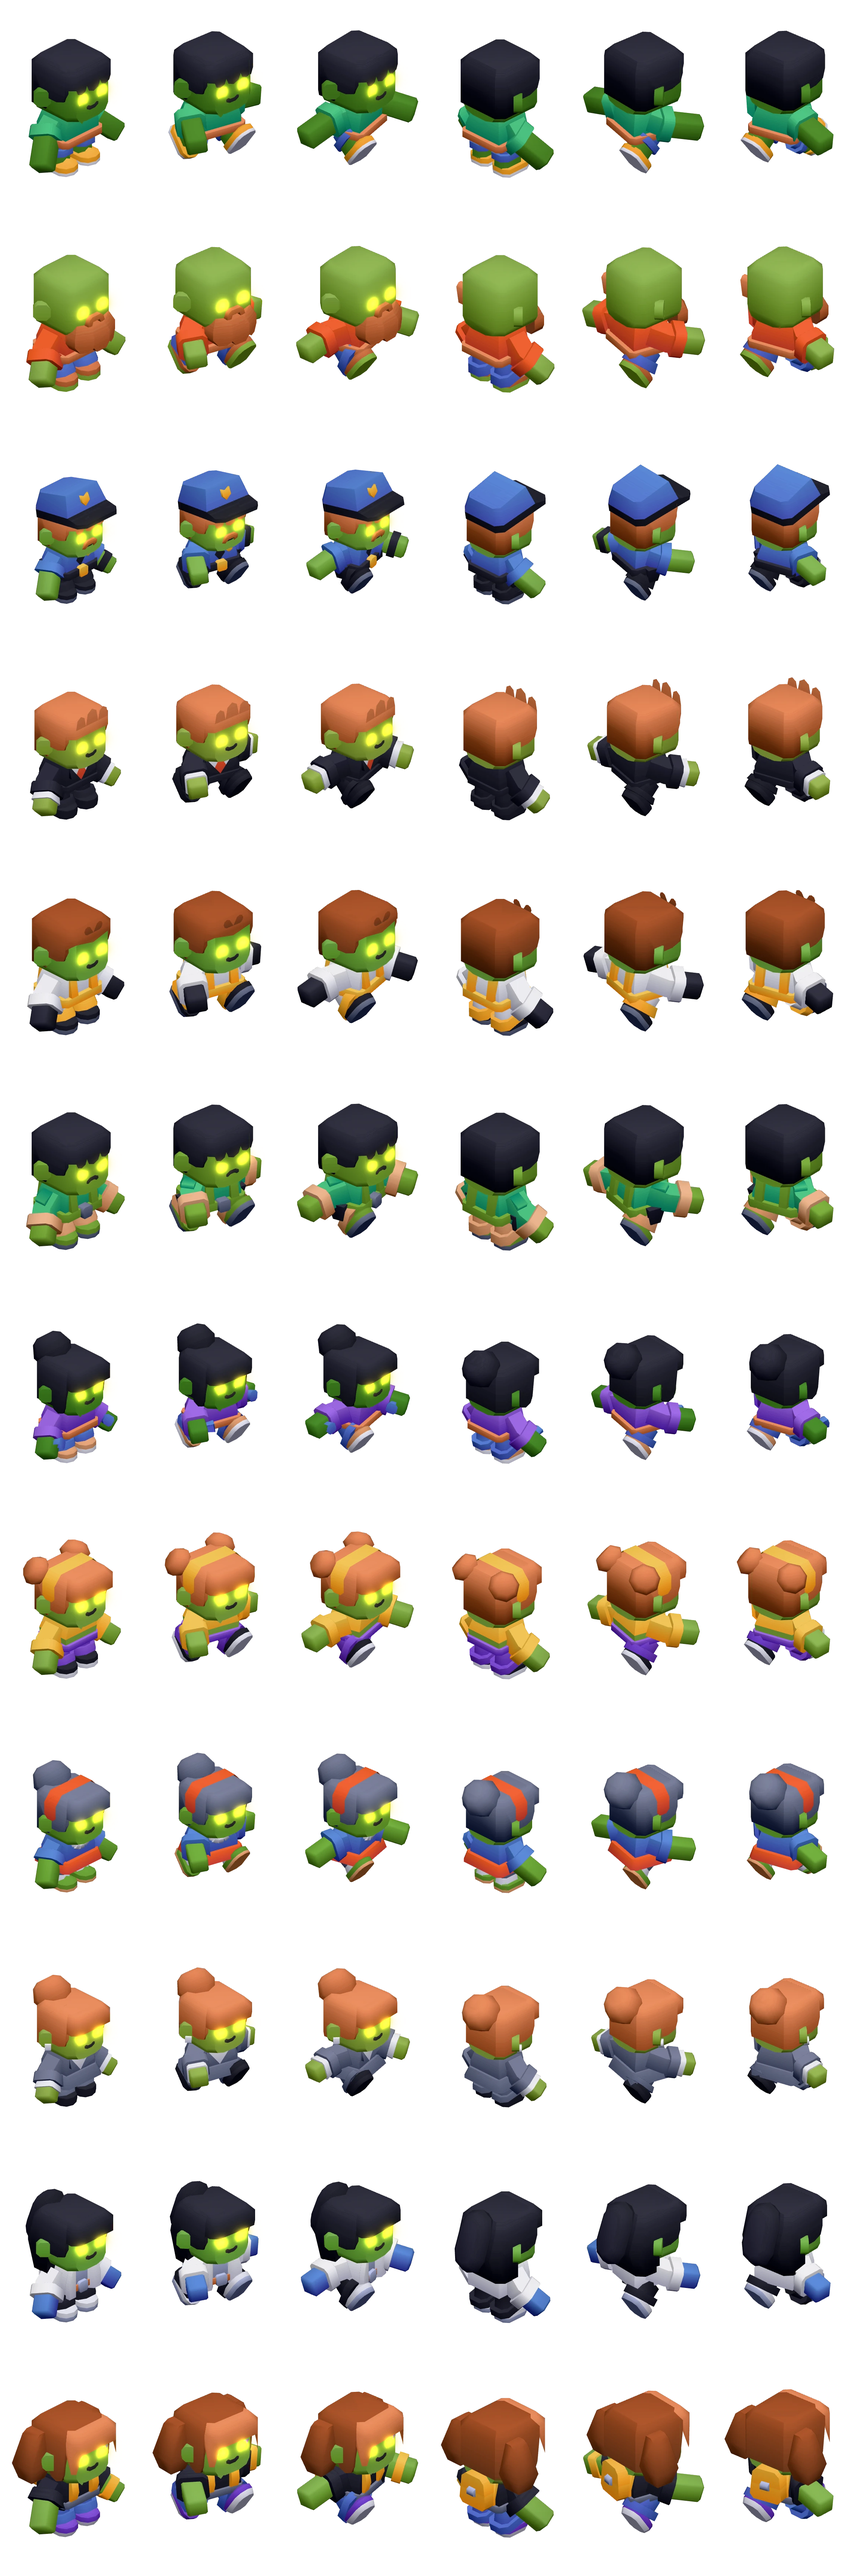
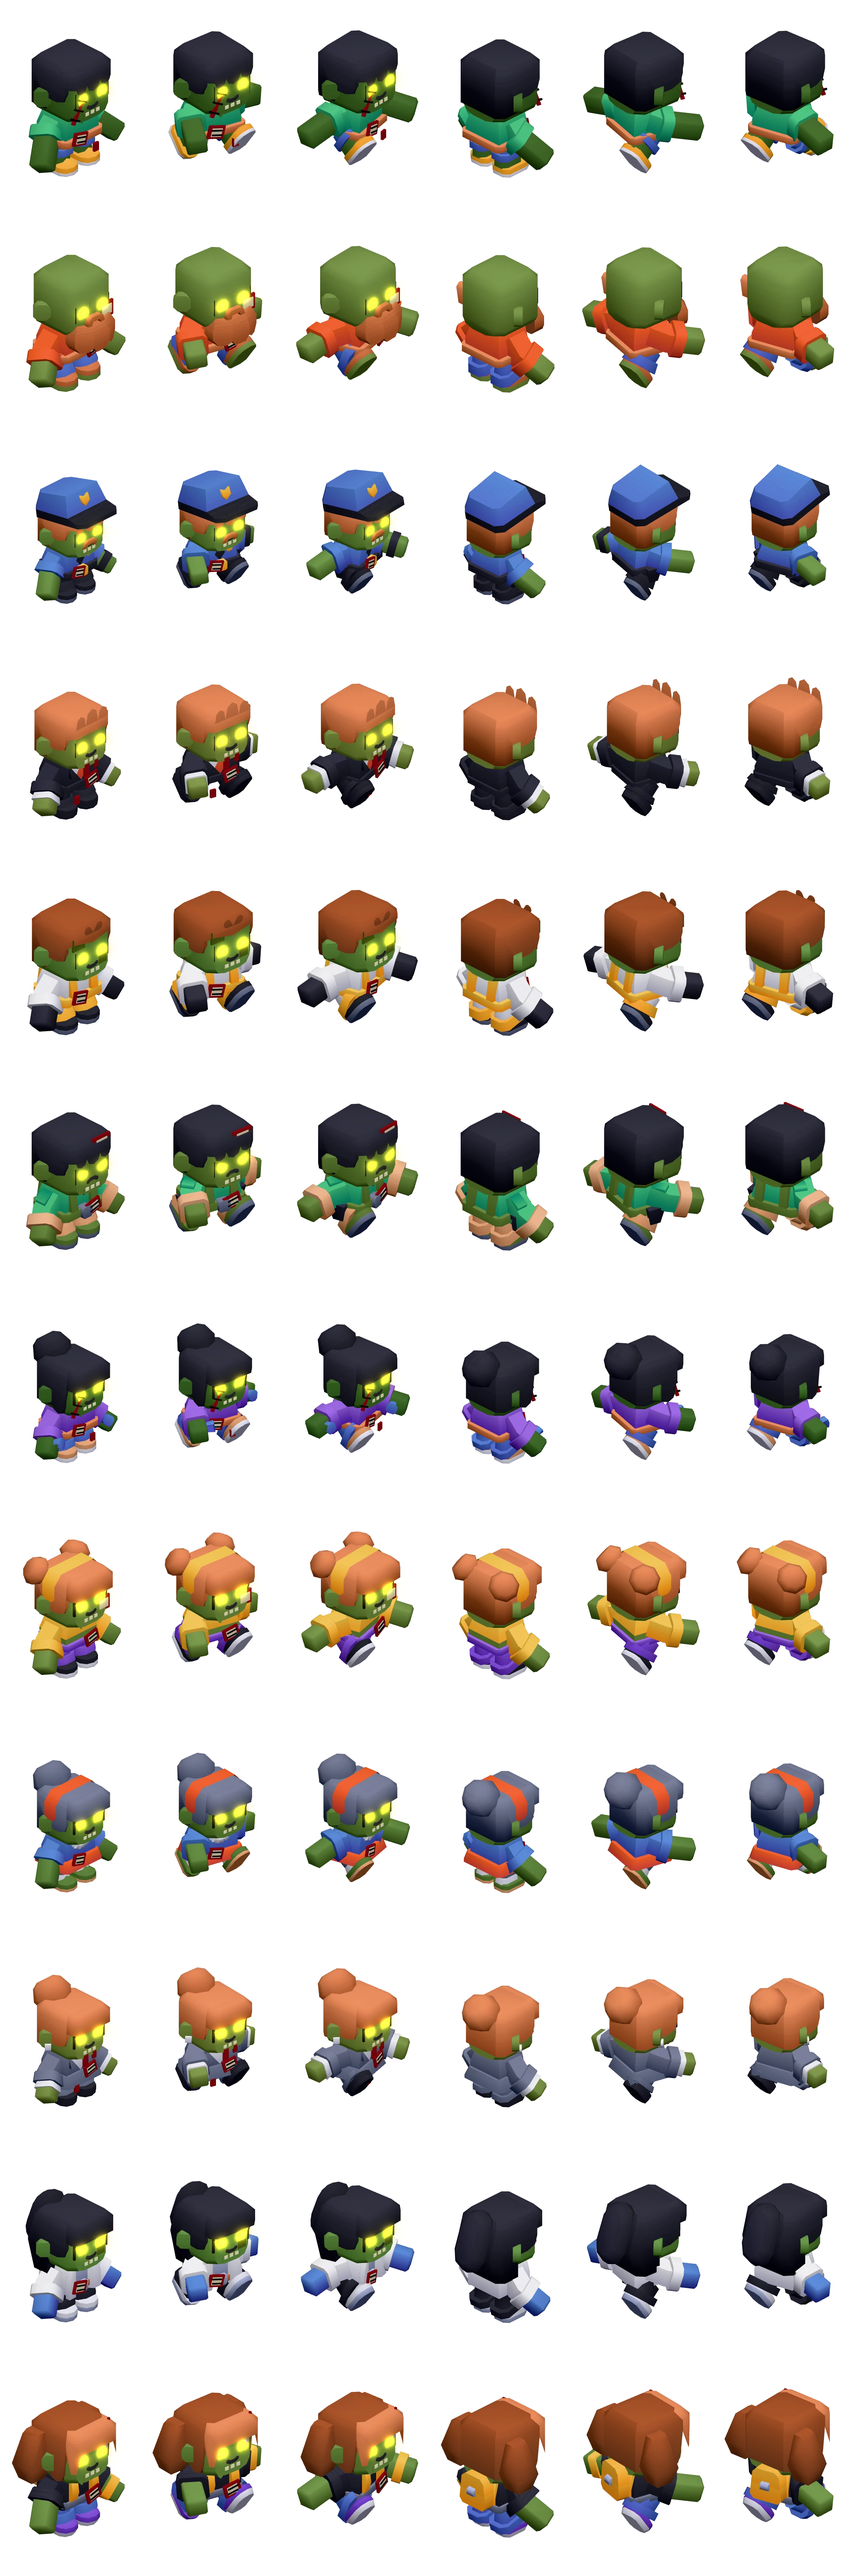
Zombis con aspecto de muerto viviente y reiniciar/terminar al final de Ajustes
Claude-Session: https://claude.ai/code/session_01EHHKZnjyesYxRjuSqf66QR

diff --git a/src/editor/characterSheet.ts b/src/editor/characterSheet.ts
@@ -2,6 +2,7 @@
 // espaldas (mirando a la derecha de la pantalla), quieto y en dos momentos del paso. Se hace al publicar (con la vista
 // elegida en el editor) y para la hoja de serie (scripts/characters/sheet.mjs).
 import * as THREE from "three";
+import { mergeGeometries } from "three/examples/jsm/utils/BufferGeometryUtils.js";
 import { GLTFLoader } from "three/examples/jsm/loaders/GLTFLoader.js";
 import { CHARACTERS, SHEET_COLS, type Pose } from "@/game/characters";
 import { tvDirection, type TvView } from "./layout";
@@ -50,13 +51,17 @@ function zombieMap(original: THREE.Texture, id: string): THREE.Texture {
   const color = new THREE.Color();
   for (let i = 0; i < d.length; i += 4) {
     const lum = (0.299 * d[i] + 0.587 * d[i + 1] + 0.114 * d[i + 2]) / 255;
-    color.setHSL(hue / 360, 0.38, 0.22 + lum * 0.42, THREE.SRGBColorSpace);
+    color.setHSL(hue / 360, 0.27, 0.2 + lum * 0.36, THREE.SRGBColorSpace); // verde apagado y cadavérico
     const rgb = color.getStyle(THREE.SRGBColorSpace).match(/\d+/g)!.map(Number);
     [d[i], d[i + 1], d[i + 2]] = rgb;
   }
   ctx.putImageData(px, x0, y0);
   ctx.fillStyle = EYE.color; // los ojos (yellowEyes)
   ctx.fillRect(EYE.x * k, EYE.y * k, EYE.size * k, EYE.size * k);
+  for (const c2 of Object.keys(UNDEAD) as (keyof typeof UNDEAD)[]) {
+    ctx.fillStyle = UNDEAD[c2];
+    ctx.fillRect(UNDEAD_X[c2] * k, EYE.y * k, 16 * k, 16 * k);
+  }
   const tex = new THREE.CanvasTexture(c);
   tex.flipY = original.flipY;
   tex.colorSpace = original.colorSpace;
@@ -80,6 +85,10 @@ function pixels(tex: THREE.Texture) {
 
 /** Cuadrito amarillo vivo que se pinta en una zona vacía (negra) de la paleta: los ojos de zombi. */
 const EYE = { x: 8, y: 8, size: 16, color: "#fff04a" };
+/** Colores extra de la paleta para los detalles de muerto viviente (cuencas, sangre, hueso, dientes); cada uno es un cuadrito de 16 px en la fila de arriba. */
+const UNDEAD = { dark: "#0c0a10", blood: "#8a1018", bone: "#d8d0b0", teeth: "#efe8c8", rot: "#4a5a2c" } as const;
+const UNDEAD_X: Record<keyof typeof UNDEAD, number> = { dark: 32, blood: 56, bone: 80, teeth: 104, rot: 128 };
+const uvOf = (c: keyof typeof UNDEAD): [number, number] => [(UNDEAD_X[c] + 8) / 512, (EYE.y + 8) / 512];
 const YELLOW_UV = [(EYE.x + EYE.size / 2) / 512, (EYE.y + EYE.size / 2) / 512];
 
 /**
@@ -269,6 +278,99 @@ function eyeGlow(ctx: CanvasRenderingContext2D, x: number, y: number, w: number,
   ctx.restore();
 }
 
+
+type Piece = { c: keyof typeof UNDEAD; x: number; y: number; z: number; w: number; h: number; d?: number; rot?: number };
+
+/**
+ * Añade piezas sueltas (cajas de un solo color de la paleta) a una malla con esqueleto, atadas al hueso `bone`: así siguen a la cabeza o al torso
+ * cuando se anima, tanto en la hoja de sprites como en el 3D en vivo. Las posiciones son las de la malla en reposo.
+ */
+function addPieces(mesh: THREE.Mesh, bone: number, pieces: Piece[]) {
+  if (!pieces.length) return;
+  const base = mesh.geometry;
+  const parts: THREE.BufferGeometry[] = [base];
+  for (const pc of pieces) {
+    const g = new THREE.BoxGeometry(pc.w, pc.h, pc.d ?? 0.012);
+    if (pc.rot) g.rotateZ(pc.rot);
+    g.translate(pc.x, pc.y, pc.z);
+    const n = g.attributes.position.count;
+    const [u, v] = uvOf(pc.c);
+    const uv = new Float32Array(n * 2);
+    for (let i = 0; i < n; i++) [uv[i * 2], uv[i * 2 + 1]] = [u, v];
+    const out = new THREE.BufferGeometry();
+    out.setIndex(g.index!.array.length ? Array.from(g.index!.array) : []);
+    for (const name of Object.keys(base.attributes)) {
+      const a = base.attributes[name] as THREE.BufferAttribute;
+      if (name === "position" || name === "normal") out.setAttribute(name, g.attributes[name]);
+      else if (name.startsWith("uv")) out.setAttribute(name, new THREE.BufferAttribute(uv.slice(), 2));
+      else if (name === "skinIndex") out.setAttribute(name, new THREE.BufferAttribute(new Uint16Array(n * 4).map((_, i) => (i % 4 === 0 ? bone : 0)), 4));
+      else if (name === "skinWeight") out.setAttribute(name, new THREE.BufferAttribute(new Float32Array(n * 4).map((_, i) => (i % 4 === 0 ? 1 : 0)), 4));
+      else out.setAttribute(name, new THREE.BufferAttribute(new Float32Array(n * a.itemSize), a.itemSize));
+    }
+    parts.push(out);
+  }
+  mesh.geometry = mergeGeometries(parts, false) ?? base;
+}
+
+/** Cara de muerto viviente: cuencas oscuras, boca con dientes y una herida distinta según el personaje (`variant`). */
+function undeadFace(mesh: THREE.Mesh, eyes: THREE.Vector3[], variant: number) {
+  const skinned = mesh as THREE.SkinnedMesh;
+  const joint = (mesh.geometry.attributes.skinIndex?.getX(0) ?? 6) | 0;
+  if (!eyes.length || !skinned.isSkinnedMesh) return;
+  const zf = Math.max(...eyes.map((e) => e.z)) - 0.003;
+  const yc = eyes[0].y;
+  const pieces: Piece[] = [];
+  for (const e of eyes) pieces.push({ c: "dark", x: e.x, y: e.y, z: zf - 0.006, w: 0.105, h: 0.095 });
+  // boca: tajo oscuro con tres dientes
+  pieces.push({ c: "dark", x: 0, y: yc - 0.115, z: zf - 0.006, w: 0.13, h: 0.036 });
+  for (const dx of [-0.04, 0, 0.04]) pieces.push({ c: "teeth", x: dx, y: yc - 0.104, z: zf - 0.002, w: 0.024, h: 0.02, d: 0.014 });
+  const side = variant % 2 ? 1 : -1;
+  switch (variant % 6) {
+    case 0: // cicatriz cosida en la mejilla
+      pieces.push({ c: "blood", x: side * 0.1, y: yc - 0.06, z: zf - 0.004, w: 0.024, h: 0.17, rot: 0.5 * side });
+      for (const t of [-0.05, 0, 0.05]) pieces.push({ c: "dark", x: side * (0.1 - t * 0.5), y: yc - 0.06 + t, z: zf - 0.001, w: 0.07, h: 0.01, rot: 0.5 * side });
+      break;
+    case 1: // hueso al aire en la mejilla
+      pieces.push({ c: "blood", x: side * 0.105, y: yc - 0.05, z: zf - 0.005, w: 0.1, h: 0.09 });
+      pieces.push({ c: "bone", x: side * 0.105, y: yc - 0.05, z: zf - 0.001, w: 0.07, h: 0.055, d: 0.014 });
+      break;
+    case 2: // frente cosida
+      pieces.push({ c: "blood", x: 0, y: yc + 0.13, z: zf - 0.004, w: 0.24, h: 0.022 });
+      for (const dx of [-0.08, -0.027, 0.027, 0.08]) pieces.push({ c: "dark", x: dx, y: yc + 0.13, z: zf - 0.001, w: 0.012, h: 0.07 });
+      break;
+    case 3: // sangre que escurre de la boca
+      pieces.push({ c: "blood", x: -0.03, y: yc - 0.165, z: zf - 0.004, w: 0.04, h: 0.08 });
+      pieces.push({ c: "blood", x: 0.045, y: yc - 0.15, z: zf - 0.004, w: 0.03, h: 0.05 });
+      break;
+    case 4: // piel podrida a manchas
+      pieces.push({ c: "rot", x: side * 0.1, y: yc + 0.1, z: zf - 0.004, w: 0.09, h: 0.075 });
+      pieces.push({ c: "rot", x: -side * 0.08, y: yc - 0.06, z: zf - 0.004, w: 0.06, h: 0.05 });
+      break;
+    default: // herida abierta en la frente con hueso
+      pieces.push({ c: "blood", x: side * 0.07, y: yc + 0.14, z: zf - 0.004, w: 0.13, h: 0.085 });
+      pieces.push({ c: "bone", x: side * 0.07, y: yc + 0.14, z: zf - 0.001, w: 0.08, h: 0.05, d: 0.014 });
+  }
+  addPieces(mesh, joint, pieces);
+}
+
+/** Pecho de muerto viviente: camisa rota con las costillas al aire y manchas de sangre (atado al hueso del torso). */
+function undeadBody(mesh: THREE.Mesh, variant: number) {
+  const skinned = mesh as THREE.SkinnedMesh;
+  if (!skinned.isSkinnedMesh) return;
+  const joint = skinned.skeleton.bones.findIndex((b) => b.name === "torso");
+  if (joint < 0) return;
+  const z = 0.115;
+  const side = variant % 2 ? 1 : -1;
+  // camisa rota: un roto pequeño con sangre en el borde, costillas al aire y un jirón oscuro
+  const pieces: Piece[] = [
+    { c: "blood", x: side * 0.05, y: 0.215, z, w: 0.1, h: 0.075, d: 0.014, rot: 0.25 * side },
+    { c: "bone", x: side * 0.05, y: 0.215, z: z + 0.003, w: 0.065, h: 0.05, d: 0.014, rot: 0.25 * side },
+  ];
+  for (const dy of [-0.014, 0.014]) pieces.push({ c: "dark", x: side * 0.05, y: 0.215 + dy, z: z + 0.007, w: 0.065, h: 0.008, d: 0.014, rot: 0.25 * side });
+  if (variant % 3 === 0) pieces.push({ c: "blood", x: -side * 0.07, y: 0.12, z, w: 0.035, h: 0.05, d: 0.014 });
+  addPieces(mesh, joint, pieces);
+}
+
 /** Los 12 personajes ya convertidos en zombi (piel verde y ojos amarillos), con sus animaciones. */
 export function loadAll(): Promise<Loaded[]> {
   loading ??= Promise.all(
@@ -288,9 +390,13 @@ export function loadAll(): Promise<Loaded[]> {
                 const orig = [mesh.material].flat()[0] as THREE.MeshStandardMaterial;
                 if (/head/i.test(mesh.name) && orig.map) {
                   yellowEyes(mesh, orig.map, eyes);
+                  undeadFace(mesh, eyes, CHARACTERS.indexOf(id));
                   headMesh = mesh;
                 }
-                if (/body/i.test(mesh.name)) dropProps(mesh, id);
+                if (/body/i.test(mesh.name)) {
+                  dropProps(mesh, id);
+                  undeadBody(mesh, CHARACTERS.indexOf(id));
+                }
                 mesh.material = ([mesh.material].flat() as THREE.MeshStandardMaterial[]).map((orig) => {
                   const m = orig.clone();
                   if ("metalness" in m) m.metalness = 0;

diff --git a/src/components/SettingsDialog.tsx b/src/components/SettingsDialog.tsx
@@ -32,30 +32,6 @@ export default function SettingsDialog({ game, busy, onAction, onRestart, onClos
     >
       <CardText size={1}>Quita un vaso a quien se le contó de más, pon en pausa a quien se ausenta un rato (se salta su turno) o expulsa a quien ya no está jugando.</CardText>
 
-      {!finished && (
-        <div className="flex flex-col" style={{ gap: u(0.6), marginTop: u(1.2) }}>
-          {game_ ? (
-            <>
-              <CardText size={1}>{game_ === "end" ? "¿Terminar la partida ahora? Gana quien va más adelantado y se ve la clasificatoria." : "¿Reiniciar la partida? Todos vuelven a la casilla 1 con los mismos jugadores y sin tragos."}</CardText>
-              <div className="flex" style={{ gap: u(0.6) }}>
-                <button
-                  disabled={busy}
-                  onClick={() => { if (game_ === "end") onAction({ type: "END_GAME" }); else onRestart?.(); setGameConfirm(null); onClose(); }}
-                  className="btn-game flex-1 bg-btn-green py-3 text-xl text-white"
-                >
-                  {game_ === "end" ? "SÍ, TERMINAR" : "SÍ, REINICIAR"}
-                </button>
-                <button onClick={() => setGameConfirm(null)} className="btn-game flex-1 bg-btn-grey py-3 text-xl text-white">NO</button>
-              </div>
-            </>
-          ) : (
-            <div className="flex" style={{ gap: u(0.6) }}>
-              <button disabled={busy} onClick={() => setGameConfirm("restart")} className="btn-game flex-1 bg-btn-grey py-3 text-xl text-white">REINICIAR PARTIDA</button>
-              <button disabled={busy} onClick={() => setGameConfirm("end")} className="btn-game flex-1 bg-btn-yellow py-3 text-xl text-white">TERMINAR PARTIDA</button>
-            </div>
-          )}
-        </div>
-      )}
       <ul className="flex flex-col" style={{ gap: u(0.7), marginTop: u(0.9) }}>
         {game.players.map((p) => (
           <li key={p.id} style={{ padding: u(0.8), borderRadius: u(1), background: "rgba(255,255,255,.08)" }}>
@@ -118,6 +94,30 @@ export default function SettingsDialog({ game, busy, onAction, onRestart, onClos
           </li>
         ))}
       </ul>
+      {!finished && (
+        <div className="flex flex-col" style={{ gap: u(0.6), marginTop: u(1.2) }}>
+          {game_ ? (
+            <>
+              <CardText size={1}>{game_ === "end" ? "¿Terminar la partida ahora? Gana quien va más adelantado y se ve la clasificatoria." : "¿Reiniciar la partida? Todos vuelven a la casilla 1 con los mismos jugadores y sin tragos."}</CardText>
+              <div className="flex" style={{ gap: u(0.6) }}>
+                <button
+                  disabled={busy}
+                  onClick={() => { if (game_ === "end") onAction({ type: "END_GAME" }); else onRestart?.(); setGameConfirm(null); onClose(); }}
+                  className="btn-game flex-1 bg-btn-green py-3 text-xl text-white"
+                >
+                  {game_ === "end" ? "SÍ, TERMINAR" : "SÍ, REINICIAR"}
+                </button>
+                <button onClick={() => setGameConfirm(null)} className="btn-game flex-1 bg-btn-grey py-3 text-xl text-white">NO</button>
+              </div>
+            </>
+          ) : (
+            <div className="flex" style={{ gap: u(0.6) }}>
+              <button disabled={busy} onClick={() => setGameConfirm("restart")} className="btn-game flex-1 bg-btn-grey py-3 text-xl text-white">REINICIAR PARTIDA</button>
+              <button disabled={busy} onClick={() => setGameConfirm("end")} className="btn-game flex-1 bg-btn-yellow py-3 text-xl text-white">TERMINAR PARTIDA</button>
+            </div>
+          )}
+        </div>
+      )}
       {!canRemove && <p style={{ ...body, fontSize: u(0.9), color: "#d8d4f6", opacity: 0.6, marginTop: u(0.7) }}>{finished ? "Con la partida terminada solo se pueden quitar vasos." : "Con 2 jugadores no se puede expulsar a nadie: hacen falta al menos 2."}</p>}
     </CardPanel>
   );

diff --git a/CLAUDE.md b/CLAUDE.md
@@ -447,3 +447,5 @@ El usuario quiere diseñar él mismo el tablero, como en Los Sims o Photoshop, e
 - **«Le toca a» del celular más abajo y con el nombre en verde biche** (pedido del usuario: estaba pegado a los botones de arriba): `TurnBanner` (`DiceController.tsx`) lleva `mt-8` (no en `compact`) y el nombre va en `#bffa58` con la misma sombra oscura; la etiqueta sigue blanca. Verificado con Playwright en el celular (390×800).
 - **Pantalla de la tarjeta del celular: «TURNO DE» como el de «Le toca a»** (pedido del usuario: en lugar de la tarjeta de usuario de la TV, el mismo diseño que «Le toca a»): `OwnerChip` (`DiceController.tsx`) ahora pinta `TurnBanner` (retrato 84 px, «TURNO DE» y el nombre en verde biche `#bffa58`) de quien tiró, encima de la tarjeta de la casilla; ya no usa `TurnChip` ni los ajustes «Tarjeta de usuario» del editor en el celular (la TV sí). Verificado con Playwright en el celular (390×800).
 - **«REINICIAR PARTIDA» y «TERMINAR PARTIDA» en AJUSTES** (pedido del usuario): dos botones al inicio de `SettingsDialog` (solo con la partida en curso), cada uno con confirmación en la misma tarjeta. **Reiniciar** llama a `reset` con `same: true` (mismos jugadores y copas por ganar, casilla 1, sin tragos). **Terminar** es la acción `END_GAME` (`engine.ts`, en `actionTypes.ts`): `phase = FINISHED`, `GameState.ended = true` (`matchOver` da true), gana quien va más adelantado y se abre la clasificatoria (`ranking`), con los botones de fin de partida de siempre. Test en `engine.test.ts`. Verificado con Playwright en el celular (390×800): reiniciar vuelve al dado de Jose en la casilla 1; terminar enseña «¡TERMINÓ LA PARTIDA!» con la clasificatoria.
+- **«REINICIAR PARTIDA» y «TERMINAR PARTIDA» van al final de AJUSTES** (pedido del usuario), debajo de la lista de jugadores y encima de «LISTO».
+- **Zombis más muertos vivientes** (pedido del usuario: «solo tienen los ojos amarillos y la piel verde»): en `characterSheet.ts`, `loadAll` añade a cada personaje **piezas sueltas** (cajas de un color de la paleta, `addPieces`, mezcladas en la malla con esqueleto y atadas al hueso de la cabeza o del torso, así siguen la animación en la hoja de sprites y en el 3D en vivo): **cuencas oscuras**, **boca con dientes** y una **herida distinta según el personaje** (`undeadFace`, `variant` = índice en `CHARACTERS`: cicatriz cosida en la mejilla, hueso al aire, frente cosida, sangre en la boca, piel podrida a manchas, herida abierta con hueso) y en el pecho una **camisa rota con costillas al aire** (`undeadBody`). Los colores (`UNDEAD`: oscuro, sangre, hueso, dientes, podrido) son cuadritos de 16 px que `zombieMap` pinta en la fila de arriba de la paleta (x 32-144, junto al amarillo de los ojos). La piel es un verde más **apagado y cadavérico** (saturación 0,27, antes 0,38). Hoja de serie regenerada con `node scripts/characters/sheet.mjs`; **la hoja publicada se rehace al «Publicar en la TV»**. Para añadir otro detalle: una `Piece` más en `undeadFace`/`undeadBody`. Verificado renderizando la hoja con el mismo código que el editor.
